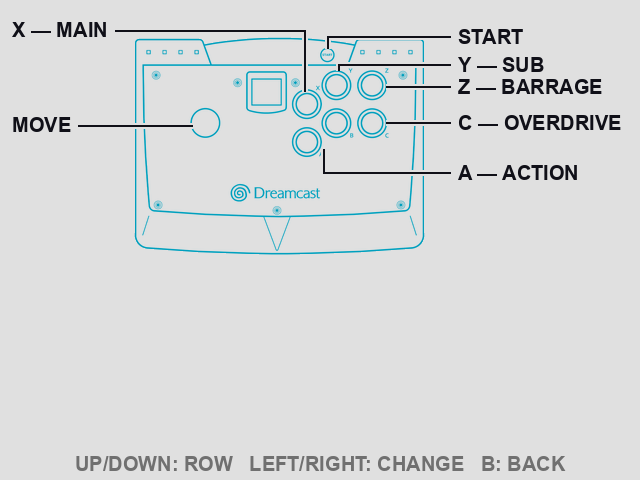
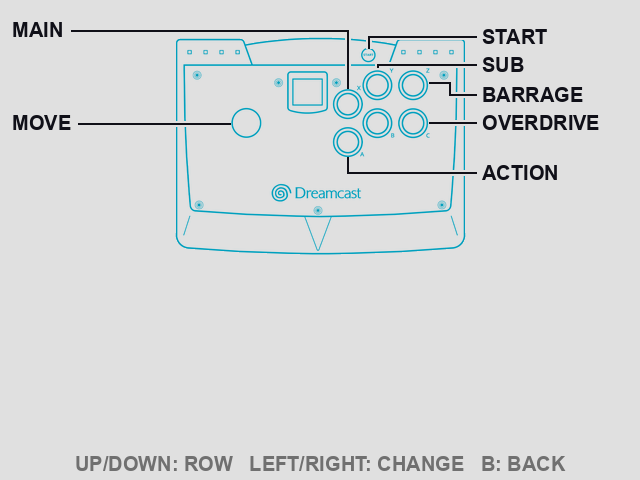
Controls pages: letterless labels, centered stick art, landing polish
- Labels lose their "<button> --" prefixes (the art letters every face
  button; the trigger leaders touch their own shoulders): prefix
  mechanism removed, label columns moved in (left x60->10, right
  x506->456), chip words share the tags' column text line.
- Stick art centered: art_x 131->172 puts the shell ink center on x320
  like the pad page; all routes shifted +41 with it. The stick page
  gets its own right column SCOL_R (lead 476, text 482) since the
  centered shell reaches x~465, past the shared COL_R line.
- Landing polish (operator rounds): every leader now kisses its
  button's outer arc at the center point -- MAIN x347/y88, SUB
  x377/y67, ACTION x348/y157, MOVE y123/x230, BARRAGE and OVERDRIVE
  at center heights y83/y123 ending x429. BARRAGE's label sits at y95
  with a mid-run step up at x450 (label-end step and a SUB stub were
  tried and rejected); START/SUB/BARRAGE/OVERDRIVE spaced 28/30/28.

Emulator-verified previews each round; pad page layout otherwise
unchanged (chips still runtime-blitted).

Claude-Session: https://claude.ai/code/session_01X6uFhpM3UtnfGFSiTQNCxS

diff --git a/scripts/gen_menu_assets.py b/scripts/gen_menu_assets.py
@@ -105,15 +105,21 @@ CTL_ROW_LABEL_X = 48
 CTL_ROW_VALUE_X = 344
 
 # The two controls-page label columns. chip_x is where menu.c blits the
-# function chip (== menu_def's anchor x); the baked "<button> --" prefix is
-# right-aligned to chip_x - PREFIX_GAP so every em dash in a column lines up
-# and the chip's left-aligned word starts one gap later ("Y -- ACTION" reads
-# as one line). lead_x is where that row's leader line leaves the label block
-# (fixed, not word-dependent: the leaders are baked, the words are not).
-# inv_x is where a baked invariant label (MOVE / START) starts.
-PREFIX_GAP = 8
-COL_L = dict(chip_x=60, lead_x=192, inv_x=12)
-COL_R = dict(chip_x=506, lead_x=450, inv_x=458)
+# function chip (== menu_def's anchor x); chips are bare function words since
+# 2026-10-03 (operator: the art itself letters every face button, so the old
+# baked "<button> --" prefixes were redundant) -- chip_x + the cell's 2px pad
+# puts the word on the column text line shared with the baked tags (inv_x).
+# lead_x is where that row's leader line leaves the label block (fixed, not
+# word-dependent: the leaders are baked, the words are not). inv_x is where
+# a baked invariant label (MOVE / START) starts.
+TEXT_GAP = 8
+COL_L = dict(chip_x=10, lead_x=192, inv_x=12)
+COL_R = dict(chip_x=456, lead_x=450, inv_x=458)
+# Stick-page right column: the centered stick art (2026-10-03) carries shell
+# ink out to x~465, past COL_R's text line, so its tags sit further right --
+# x482 (operator: x470 hugged the shell; "OVERDRIVE" still ends at 600,
+# inside the left column's own 12px margin). Tag-only, hence no chip_x.
+SCOL_R = dict(lead_x=476, inv_x=482)
 
 
 def col_of(anchor_x):
@@ -143,8 +149,6 @@ def box_of(rect):
 #                      (1024x1024), used to assert each leader lands on its
 #                      button and to keep the hand-routed page-space leads
 #                      honest if the art or the scale ever moves.
-#   prefix             override for the baked "<button> --" tag (the DC pad's
-#                      triggers are CONT_LTRIG/RTRIG but read as "L"/"R").
 #   leads              button -> leader polyline in PAGE space, WITHOUT its
 #                      first point: that is always (column lead_x, row centre),
 #                      so a leader can never drift off its own label row.
@@ -163,7 +167,6 @@ PAD_PAGE = dict(
     art_h=240, art_x=203, art_y=34,
     buttons={"Y": (822, 345, 38), "X": (742, 426, 38),
              "B": (897, 426, 38), "A": (822, 507, 38)},
-    prefix={"LTRIG": "L", "RTRIG": "R"},
     leads={"LTRIG": [(230, 52), (230, 76)],         # J-drop onto the shoulder
            "RTRIG": [(410, 52), (410, 76)],         # ledge above each trigger
            "Y": [(404, 113)],
@@ -186,30 +189,42 @@ PAD_PAGE = dict(
 # operator: the chip-grid routes were overcomplicated). Freed from the chip
 # columns, each row sits at its button's own height and the leaders are as
 # straight as the art allows:
-#   Z/C   dead-straight horizontals into the cluster's east rims (ring ink
-#         measured at x385-386 on both lanes);
+#   Z/C   horizontals at the button centre heights (y83/y123), kissing the
+#         cluster's east rims (rim east points x427.7). BARRAGE's text row
+#         sits lower, y95, stepping up to y83 mid-run at x450 (operator:
+#         at y83 the label crowded SUB, whose own line cannot leave the
+#         y65 seam, and a step right at the label read badly; x450 keeps
+#         the leg's halo clear of the screw at ~(442,76), Z's rim at 428,
+#         and the shell edge verticals at 455-457/464);
 #   Y     rides the button panel's top edge line (y65 -- the corridor the
 #         old 3-corner route jogged into), one drop onto Y's crown;
 #   X     top-left tag: over the dome (y30 clears the art box entirely),
-#         one drop down the canyon between the VMU (right edge x297) and
-#         the START button (left edge x320), landing on X's crown;
-#   A     one elbow, its vertical hugging the "Dreamcast" logo's right edge
-#         (page x319.4 measured, halo clears at x324);
-#   START one drop onto the button crown (centre ~(327,54) r7; the old hook
+#         one drop down the canyon between the VMU (right edge x338) and
+#         the START button (left edge x361), landing on X's crown;
+#   A     one elbow, its vertical rising onto A's south rim dead under the
+#         button centre (x348; operator 2026-10-03: the old logo-edge x365
+#         landed on the SE arc and read as off-centre). The horizontal at
+#         y173 clears the "Dreamcast" logo top (ink from y~180) with its
+#         halo; the vertical stays above the logo's y-range entirely;
+#   START one drop onto the button crown (centre ~(368,54) r7; the old hook
 #         cut through the vent panel's left slope).
+# art_x 131 -> 172 (2026-10-03): ink centered at x320 like the pad page's
+# (operator). Every page-space x in the routes and the measurements above
+# moved +41 with it; the right column is SCOL_R, see its comment.
 STICK_PAGE = dict(
-    art_h=224, art_x=131, art_y=34,
+    art_h=224, art_x=172, art_y=34,
     buttons={"X": (605, 397, 50), "Y": (705, 327, 50), "Z": (827, 327, 50),
              "A": (606, 524, 50), "C": (828, 461, 50)},
-    prefix={},
     leads={},
-    tags=[(COL_L, 30, "X — MAIN", [(304, 30), (304, 91)], "X"),
-          (COL_L, 125, "MOVE", [(192, 125)]),       # lever ball, left edge
-          (COL_R, 37, "START", [(327, 37), (327, 48)]),
-          (COL_R, 65, "Y — SUB", [(338, 65), (338, 70)], "Y"),
-          (COL_R, 87, "Z — BARRAGE", [(386, 87)], "Z"),
-          (COL_R, 123, "C — OVERDRIVE", [(386, 123)], "C"),
-          (COL_R, 173, "A — ACTION", [(324, 173), (324, 149)], "A")])
+    tags=[(COL_L, 30, "MAIN", [(347, 30), (347, 88)], "X"),
+          (COL_L, 123, "MOVE", [(230, 123)]),       # lever ball west point:
+                                                    # ball x231-261 y108-138,
+                                                    # kiss at centre height
+          (SCOL_R, 37, "START", [(368, 37), (368, 48)]),
+          (SCOL_R, 65, "SUB", [(377, 65), (377, 67)], "Y"),
+          (SCOL_R, 95, "BARRAGE", [(450, 95), (450, 83), (429, 83)], "Z"),
+          (SCOL_R, 123, "OVERDRIVE", [(429, 123)], "C"),
+          (SCOL_R, 173, "ACTION", [(348, 173), (348, 157)], "A")])
 
 
 def label(draw, x, cy, text, anchor="lm"):
@@ -222,7 +237,7 @@ def label(draw, x, cy, text, anchor="lm"):
 def build_page(name, spec, anchors):
     """640x480 controls page: vector-traced art autocropped, scaled to
     spec["art_h"] and pasted at (art_x, art_y), then the baked leader lines,
-    button prefixes, invariant labels and footer -- all outside the art.
+    invariant labels and footer -- all outside the art.
     No de-noise/quantize steps: the input is a flat-color (<=32) render of
     the traced SVG, so there is no JPEG noise left to clean."""
     art = os.path.join(LOADER_DIR, f"{name}_diagram.png")
@@ -281,12 +296,13 @@ def build_page(name, spec, anchors):
         col = col_of(anchors[b][0])
         cy = anchors[b][1] + CHIP_H // 2
         polys.append([(col["lead_x"], cy)] + tail)
-        pre = spec["prefix"].get(b, b) + " —"
-        texts.append((col["chip_x"] - PREFIX_GAP, cy, pre, "rm"))
     for tag in spec["tags"]:
         col, cy, text, tail = tag[:4]
         tw = ImageDraw.Draw(page).textlength(text, font=F_ROW)
-        start = col["lead_x"] if col is COL_R else col["inv_x"] + tw + PREFIX_GAP
+        # right column iff the leader exits LEFT of the text (lead_x < inv_x);
+        # a left column's leader exits just past the text's right end.
+        start = col["lead_x"] if col["lead_x"] < col["inv_x"] \
+            else col["inv_x"] + tw + TEXT_GAP
         # tail is one polyline, or a list of them for a forking leader (the
         # pad's MOVE points at BOTH the d-pad and the analog stick); each
         # fork starts at the same label exit, so shared segments overdraw.
@@ -459,9 +475,10 @@ def main():
     put_centered(draw, set_footer_rect, M.SET_FOOTER, F_ROW, GREY)
 
     # ---- CONTROLS sheet cells (same shelf) -------------------------------
-    # LEFT-aligned, not centred: the page bakes a "<button> --" prefix just
-    # left of every chip cell, so a centred word would float away from its
-    # own dash by however much shorter than "OVERDRIVE" it happens to be.
+    # LEFT-aligned, not centred: the word must hug the cell's left edge --
+    # that edge is the column text line shared with the baked tags, and a
+    # centred word would float off it by however much shorter than
+    # "OVERDRIVE" it happens to be.
     ctl_word_rects = []
     for word in M.FUNC_WORDS:
         r = shelf.place(CHIP_W, CHIP_H)

diff --git a/scripts/menu_def.py b/scripts/menu_def.py
@@ -85,11 +85,11 @@ CTL_FOOTER = "UP/DOWN: ROW   LEFT/RIGHT: CHANGE   B: BACK"
 # PAGE space. Redesign 2026-09-30 (operator rejected the first pass: chips sat
 # ON the art with white plates and no button identity). Rules now:
 #   - every chip lives OUTSIDE the device art's bounding box, in one of two
-#     label columns -- left x60, right x506 (gen_menu_assets.COL_L/COL_R);
+#     label columns -- left x10, right x456 (gen_menu_assets.COL_L/COL_R);
 #     the generator asserts chip-vs-art-box separation;
-#   - the column slot to the LEFT of each chip carries a baked "<button> --"
-#     prefix, so the row reads "Y -- ACTION" with the runtime chip supplying
-#     only the function word (chips are LEFT-aligned for that reason);
+#   - the chip is the bare function word -- no "<button> --" prefix since
+#     2026-10-03 (operator: the art letters every face button already, and
+#     each leader touches its own button, so the letters were redundant);
 #   - a baked leader line (halo + stroke) runs from the row to its button;
 #     the generator asserts each leader ends on its button's circle.
 # Row y here IS the design: anchor_y + 12 is the row centre the generator
@@ -99,8 +99,8 @@ CTL_FOOTER = "UP/DOWN: ROW   LEFT/RIGHT: CHANGE   B: BACK"
 # (top edge y72-79): their leaders run horizontal then drop vertically onto
 # the ledge above each hidden trigger (operator 2026-10-02: straight side
 # stubs didn't read as pointing at the triggers underneath).
-PAD_ANCHORS   = {"A": (506, 165), "B": (506, 133), "X": (506, 197),
-                 "Y": (506, 101), "LTRIG": (60, 40), "RTRIG": (506, 40)}
+PAD_ANCHORS   = {"A": (456, 165), "B": (456, 133), "X": (456, 197),
+                 "Y": (456, 101), "LTRIG": (10, 40), "RTRIG": (456, 40)}
 # No STICK_ANCHORS: the stick layout is fixed, so its labels are baked tags
 # owned by gen_menu_assets.STICK_PAGE (2026-10-03 re-route -- operator found
 # the chip-grid routes overcomplicated; baking frees each row to sit at its

diff --git a/loader/menu_layout.h b/loader/menu_layout.h
@@ -103,12 +103,12 @@ static const unsigned char CTL_PAD_FUNC[2][6] = {
 };
 
 static const unsigned short CTL_PAD_ANCHOR[6][2] = {
-  {506, 165},   /* A */
-  {506, 133},   /* B */
-  {506, 197},   /* X */
-  {506, 101},   /* Y */
-  {60, 40},   /* LTRIG */
-  {506, 40},   /* RTRIG */
+  {456, 165},   /* A */
+  {456, 133},   /* B */
+  {456, 197},   /* X */
+  {456, 101},   /* Y */
+  {10, 40},   /* LTRIG */
+  {456, 40},   /* RTRIG */
 };
 
 static const mrect_t CTL_ROW_LABEL[3][2] = {
